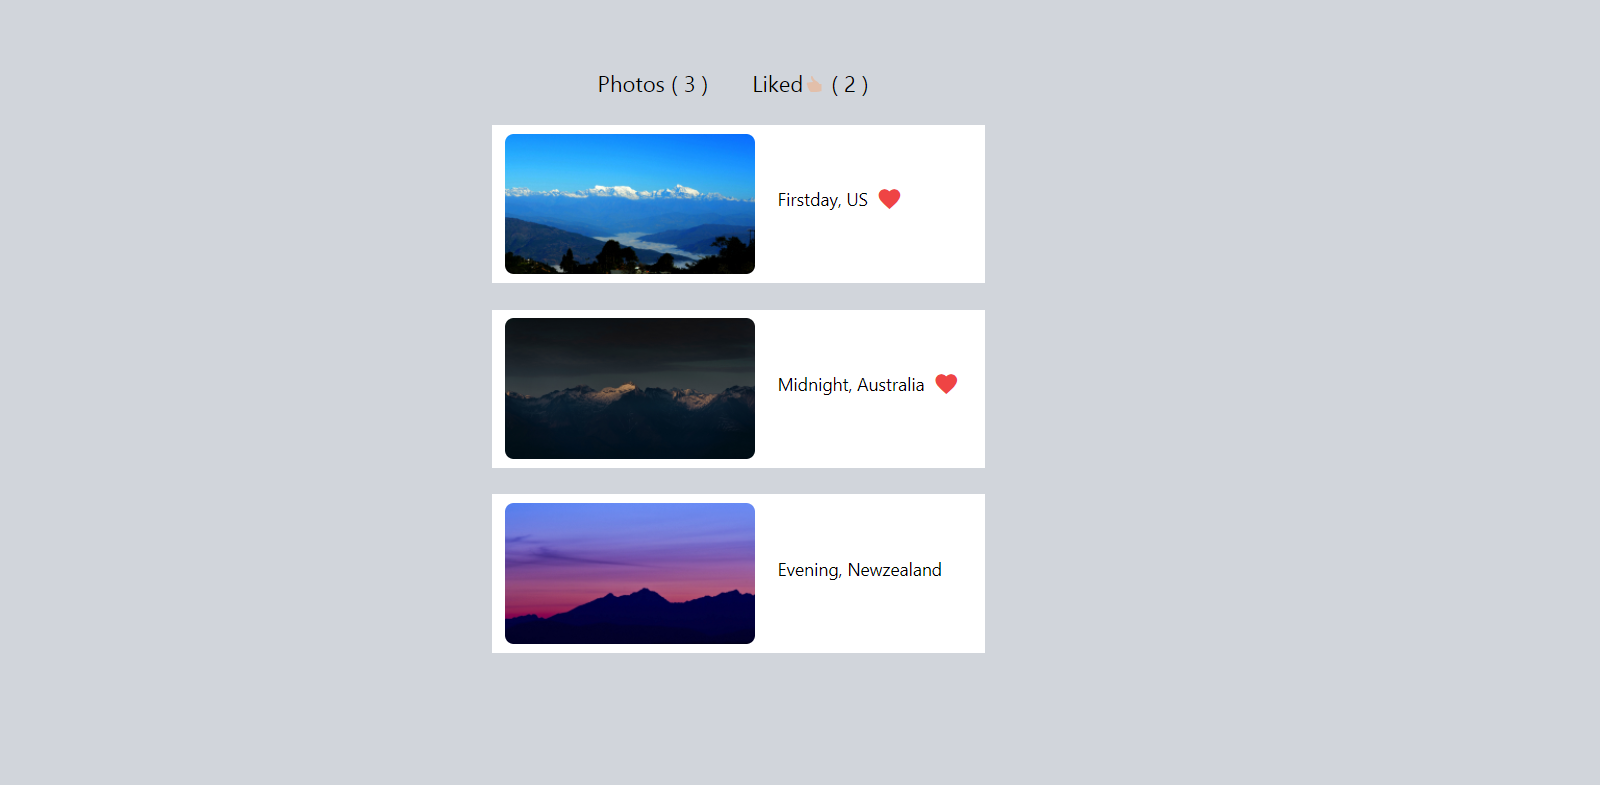
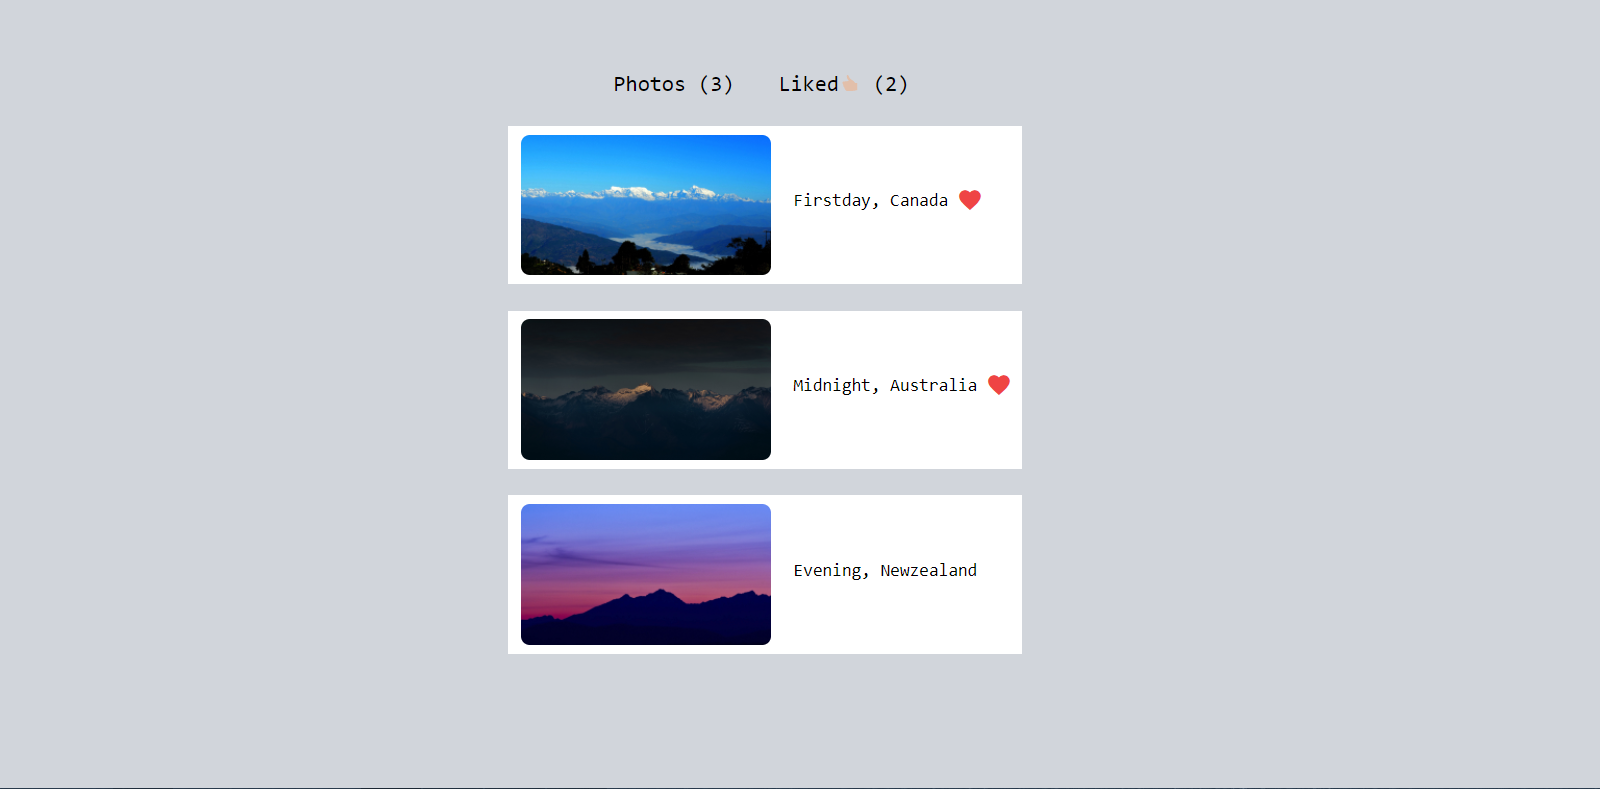
Update details

Changed region(s): [[0.2812, 0.3975, 0.6562, 0.8561], [0.2812, 0.1529, 0.6562, 0.3669], [0.375, 0.0917, 0.5625, 0.1223]]

diff --git a/62130500076_groupwork_3/index.html b/62130500076_groupwork_3/index.html
@@ -25,19 +25,19 @@
    <div id = "app" class="grid place-content-center mr-32">
       <div class="flex">
       <!-- count Photo & Like -->
-      <h1 class="text-xl mt-16 ml-40">Photos ( {{ countShow }} ) </h1> 
-      <h1 class="text-xl mt-16 ml-10">Liked👍 ( {{ countLike }} )</h1>
+      <h1 class="font-mono text-xl font-medium mt-16 ml-40">Photos ({{ countShow }}) </h1> 
+      <h1 class="font-mono text-xl font-medium mt-16 ml-10">Liked👍 ({{ countLike }})</h1>
       </div>
 
       <!-- loop Photo -->
       <div v-for="(picture,index) in allPic" class="mt-6">
          <!-- white border -->
-         <div class="flex ml-16 bg-white hover:shadow" style="width: 28rem; height: 9rem;">
+         <div class="flex ml-16 bg-white hover:shadow" style="width: 29.2rem; height: 9rem;">
             <!-- picture display -->
             <a class= 'flex ml-3 mt-2' @click="showFavIcon(index)"><img :src = 'picture.url' class="max-w-20 max-h-32 rounded-lg"></a>
             <!-- picture name and heart display -->
             <div class="flex ml-5 mt-14">
-               <p class="">{{picture.name}}</p>
+               <p class="font-mono">{{picture.name}}</p>
                <p v-show="picture.done" class="material-icons ml-2 flex text-red-500">favorite</p>
             </div>
          </div>

diff --git a/62130500076_groupwork_3/main.js b/62130500076_groupwork_3/main.js
@@ -2,7 +2,7 @@ const app = {
     data() {
         return {
             // heart: [{heart: './images/heart.png', done:false}],
-            allPic: [{url: './images/1.jpg',name:'Firstday, US', done: false},
+            allPic: [{url: './images/1.jpg',name:'Firstday, Canada', done: false},
                      {url: './images/2.jpg',name:'Midnight, Australia', done: false},
                      {url: './images/3.jpg',name:'Evening, Newzealand', done: false}],
             
